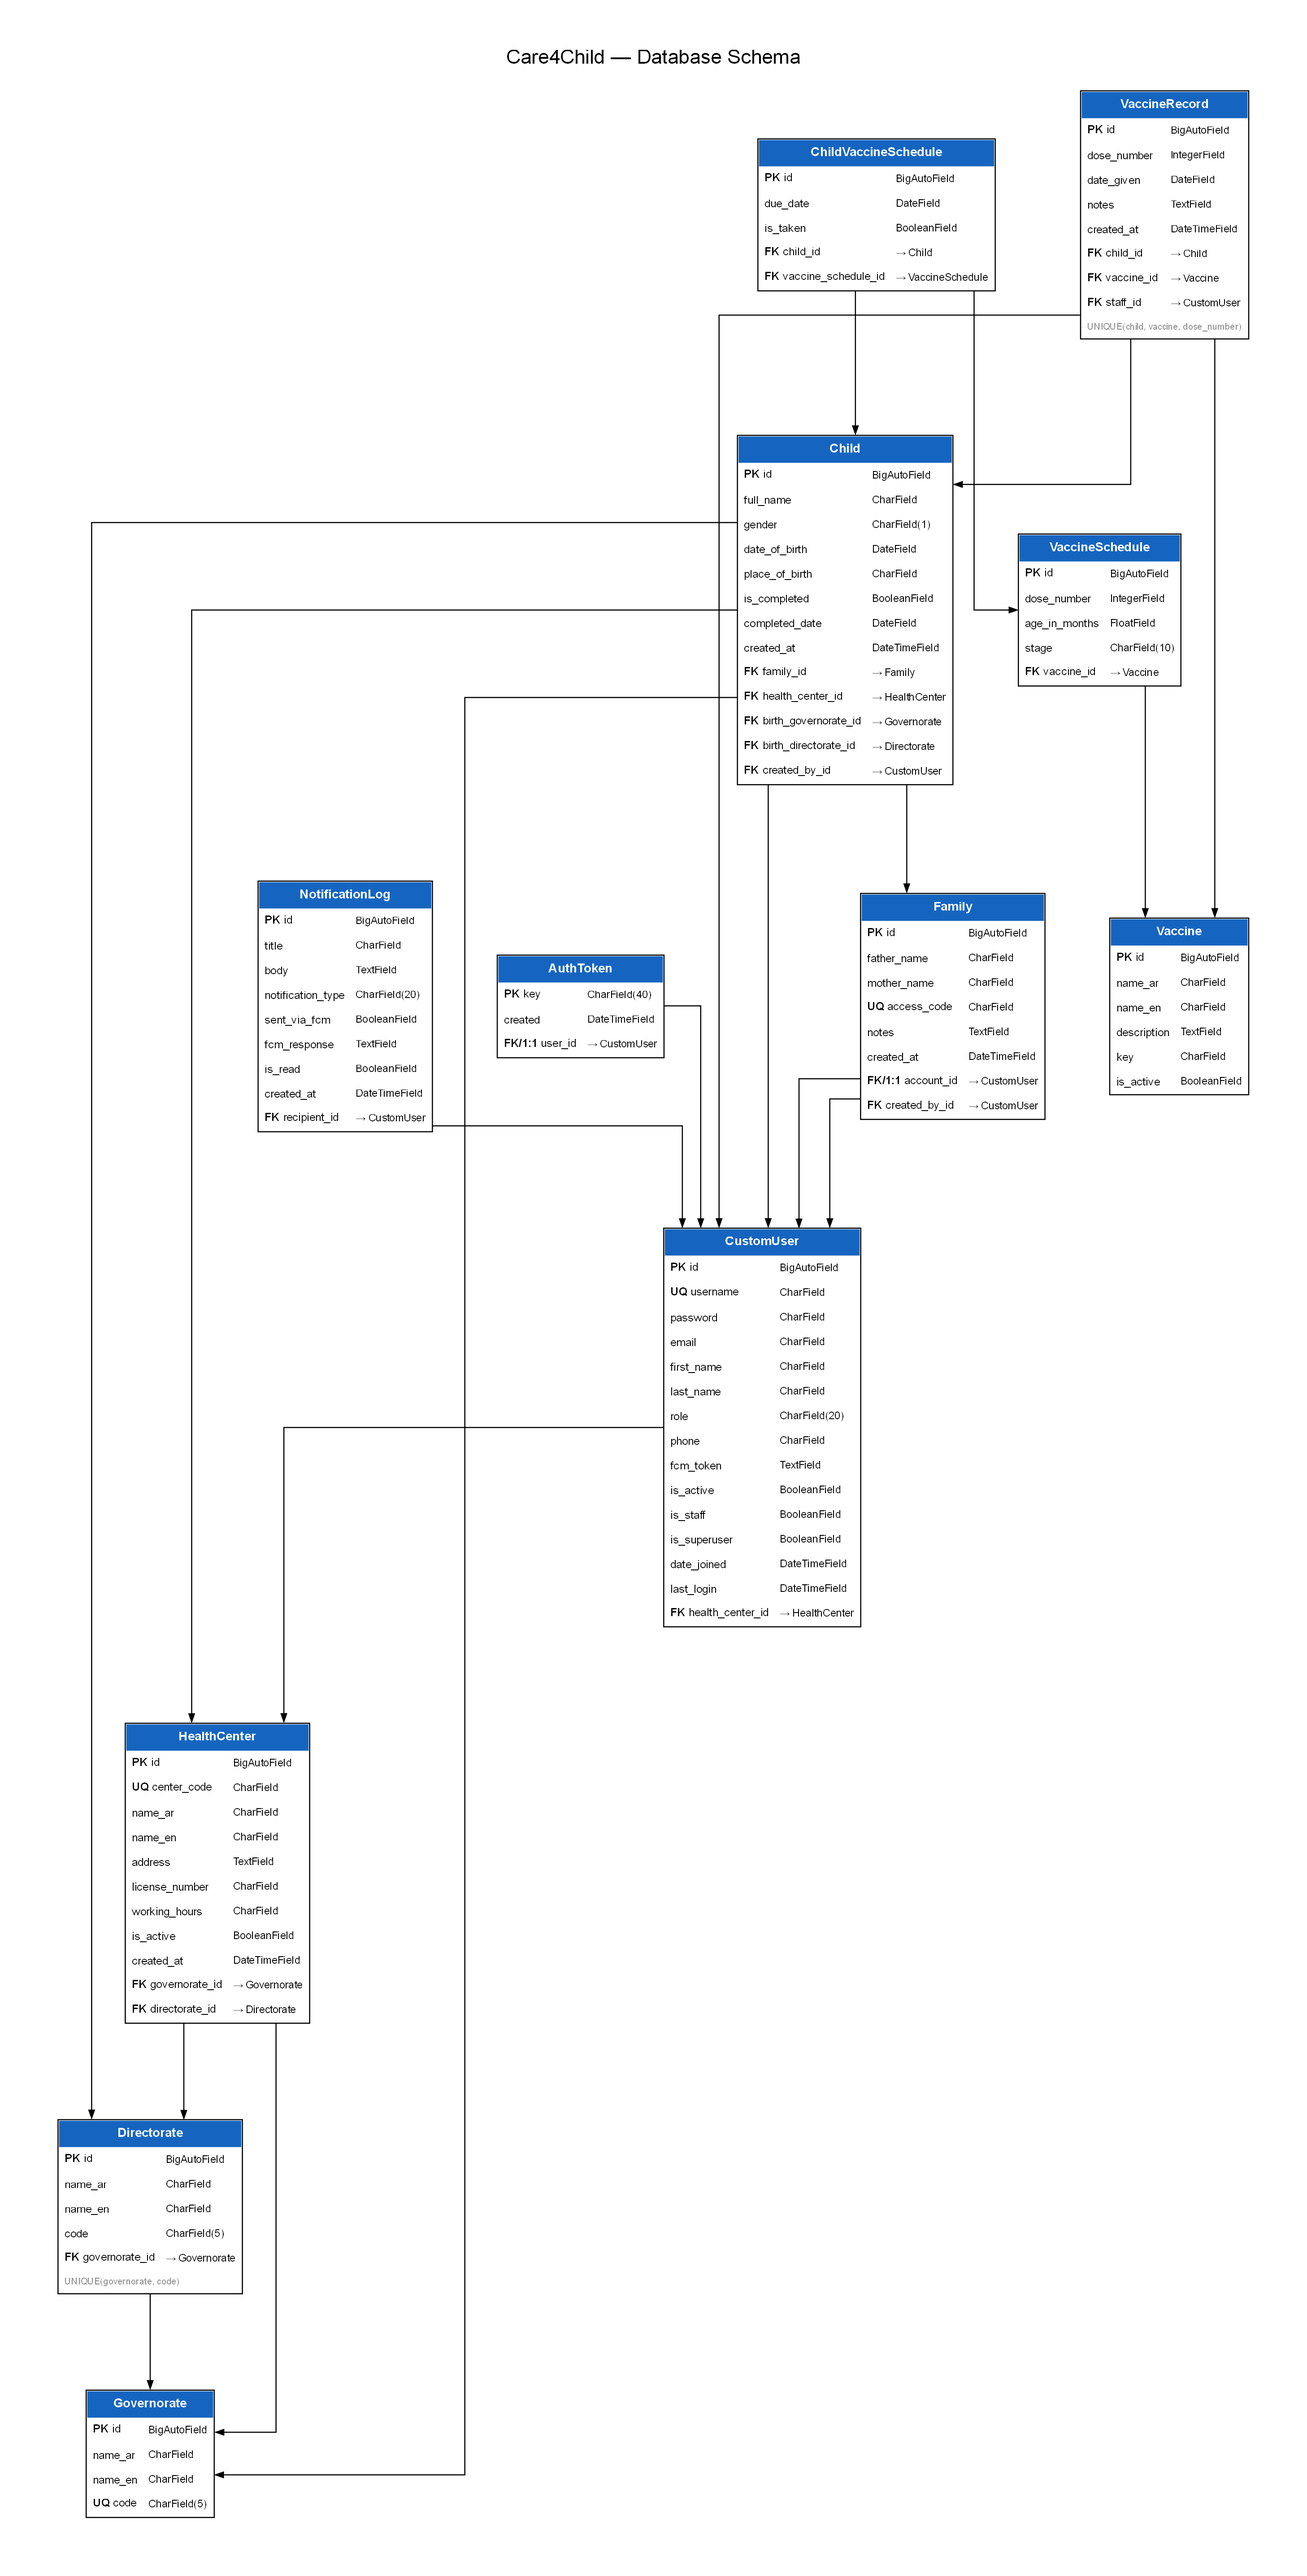
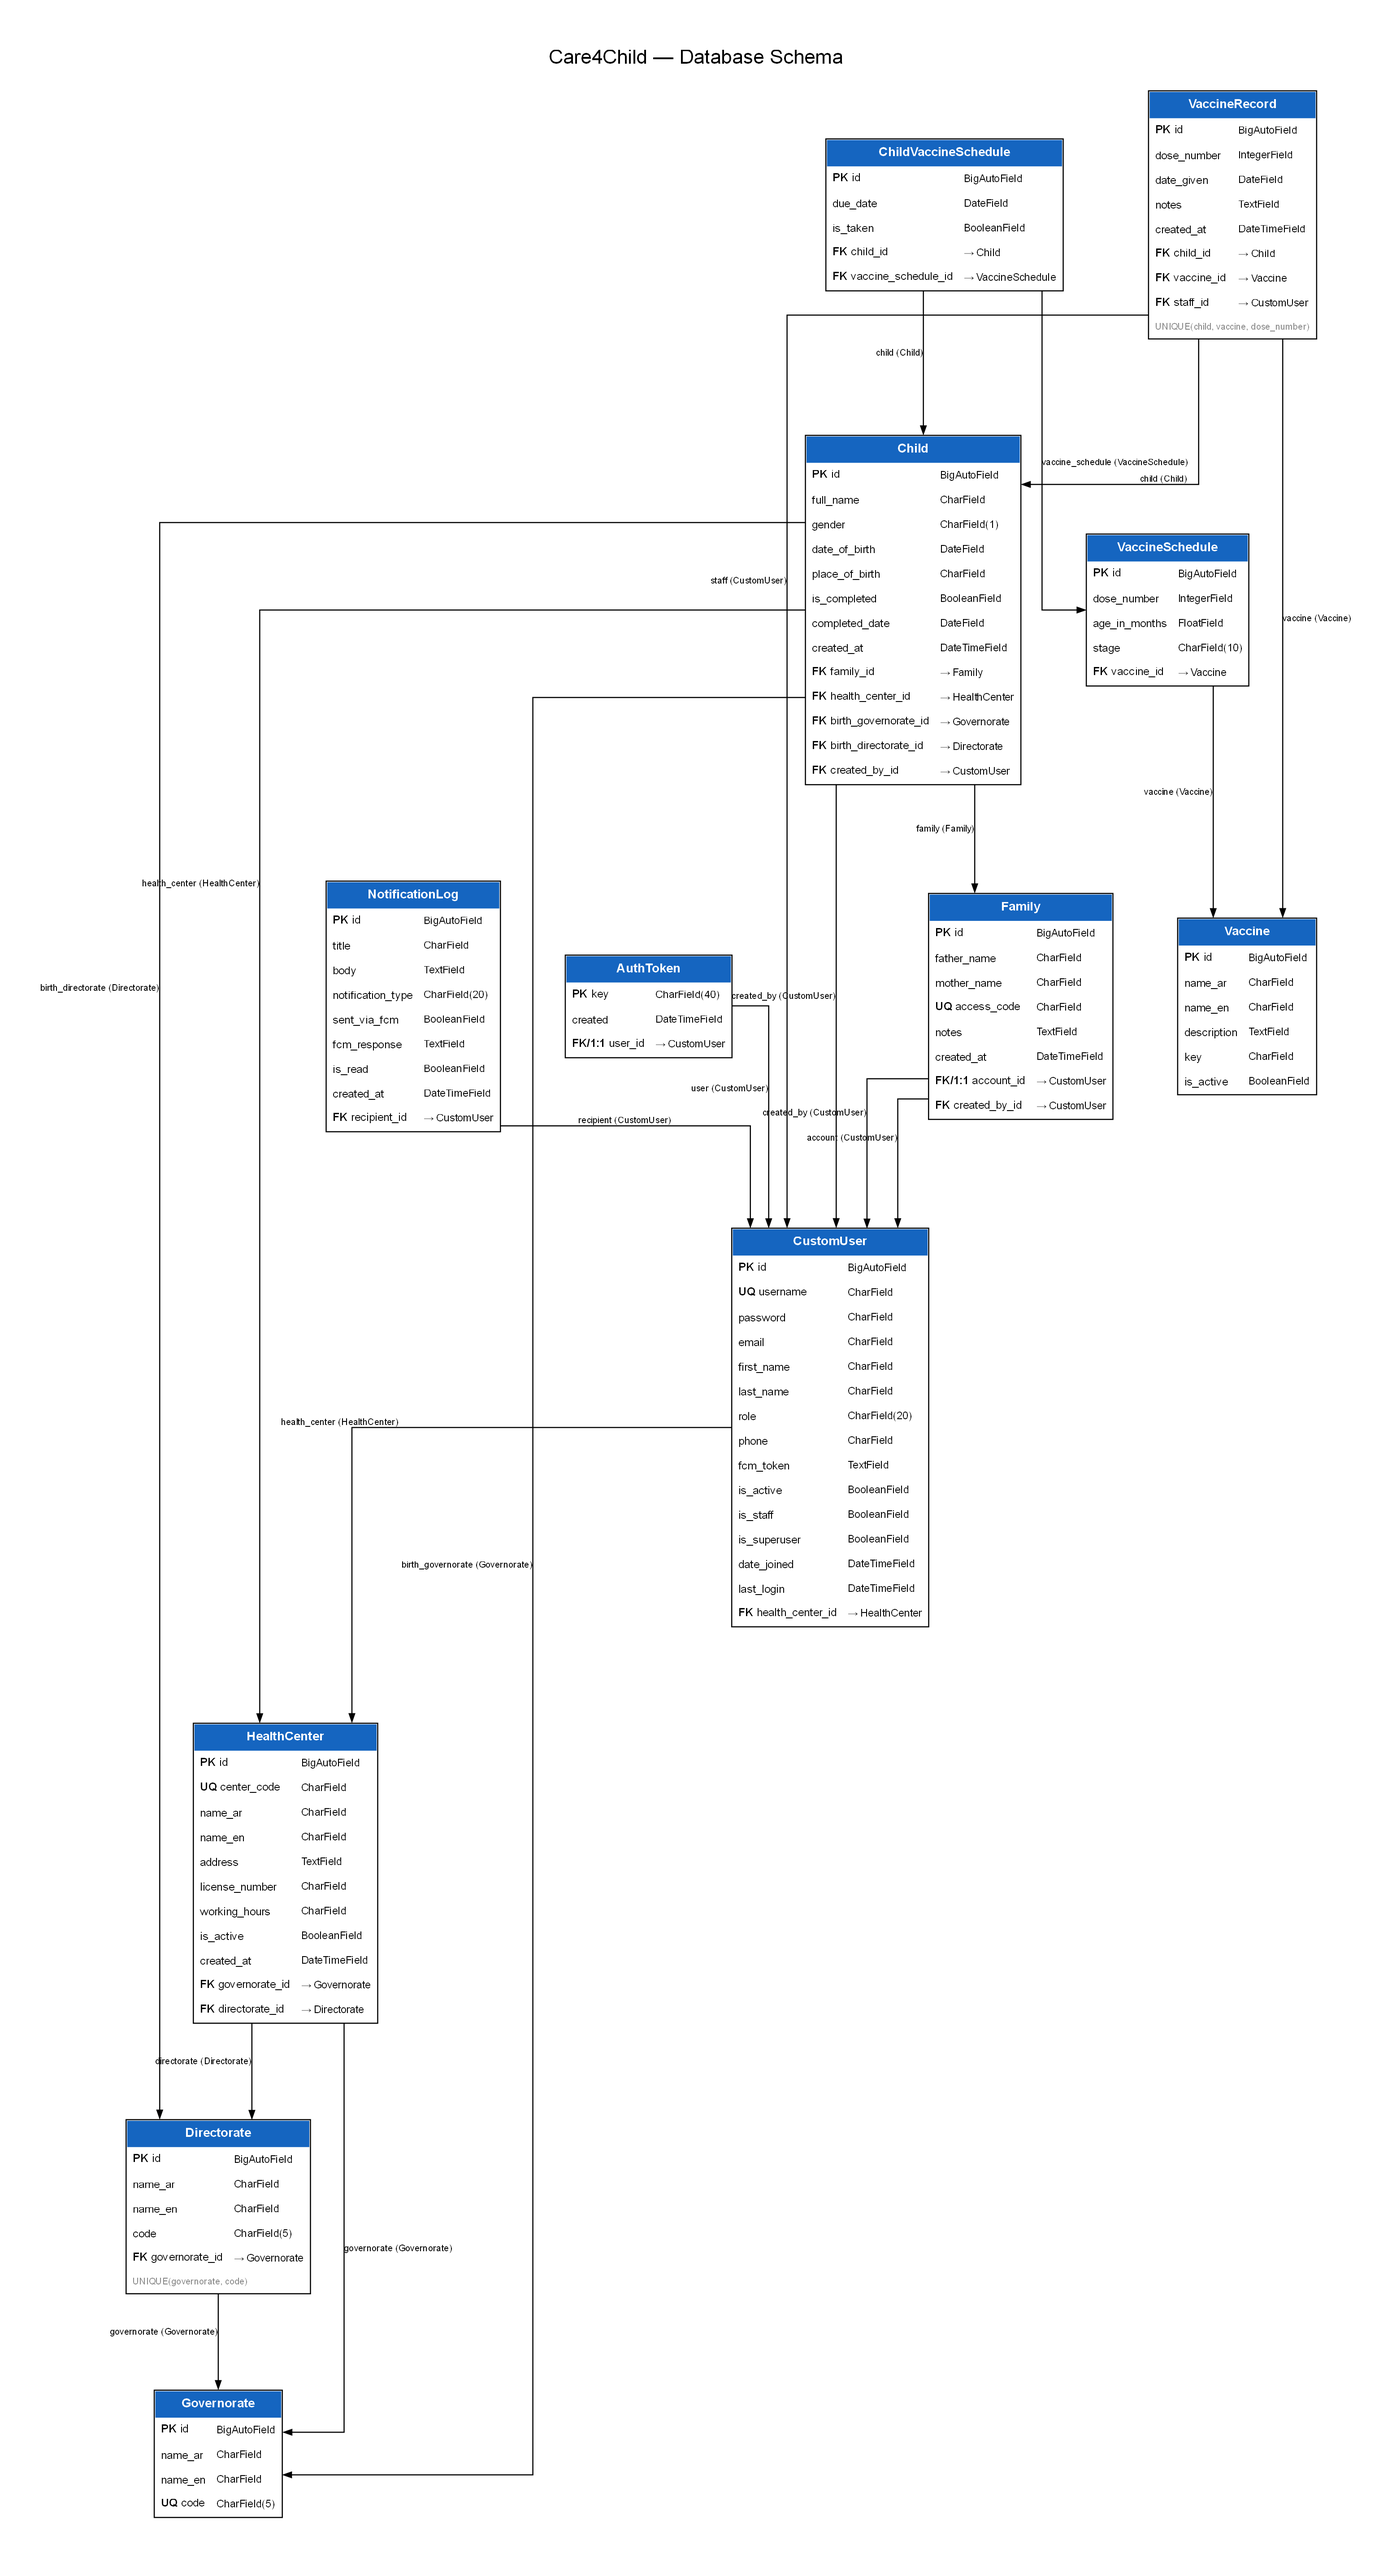
Last One.

diff --git a/generate_erd.py b/generate_erd.py
@@ -469,9 +469,11 @@ def generate(fmt="png", theme="dark", app_filter=None, table_filter=None, output
     visible_names = {tbl["name"] for _, tbl in all_tables}
     for (from_t, from_f, to_t) in RELATIONS:
         if from_t in visible_names and to_t in visible_names:
+            accessor = from_f.removesuffix("_id")
             dg.edge(
                 from_t,
                 to_t,
+                xlabel=f"{accessor} ({to_t})",
                 fontname=t["font"],
                 fontsize="8",
                 fontcolor=t["edge_color"],
